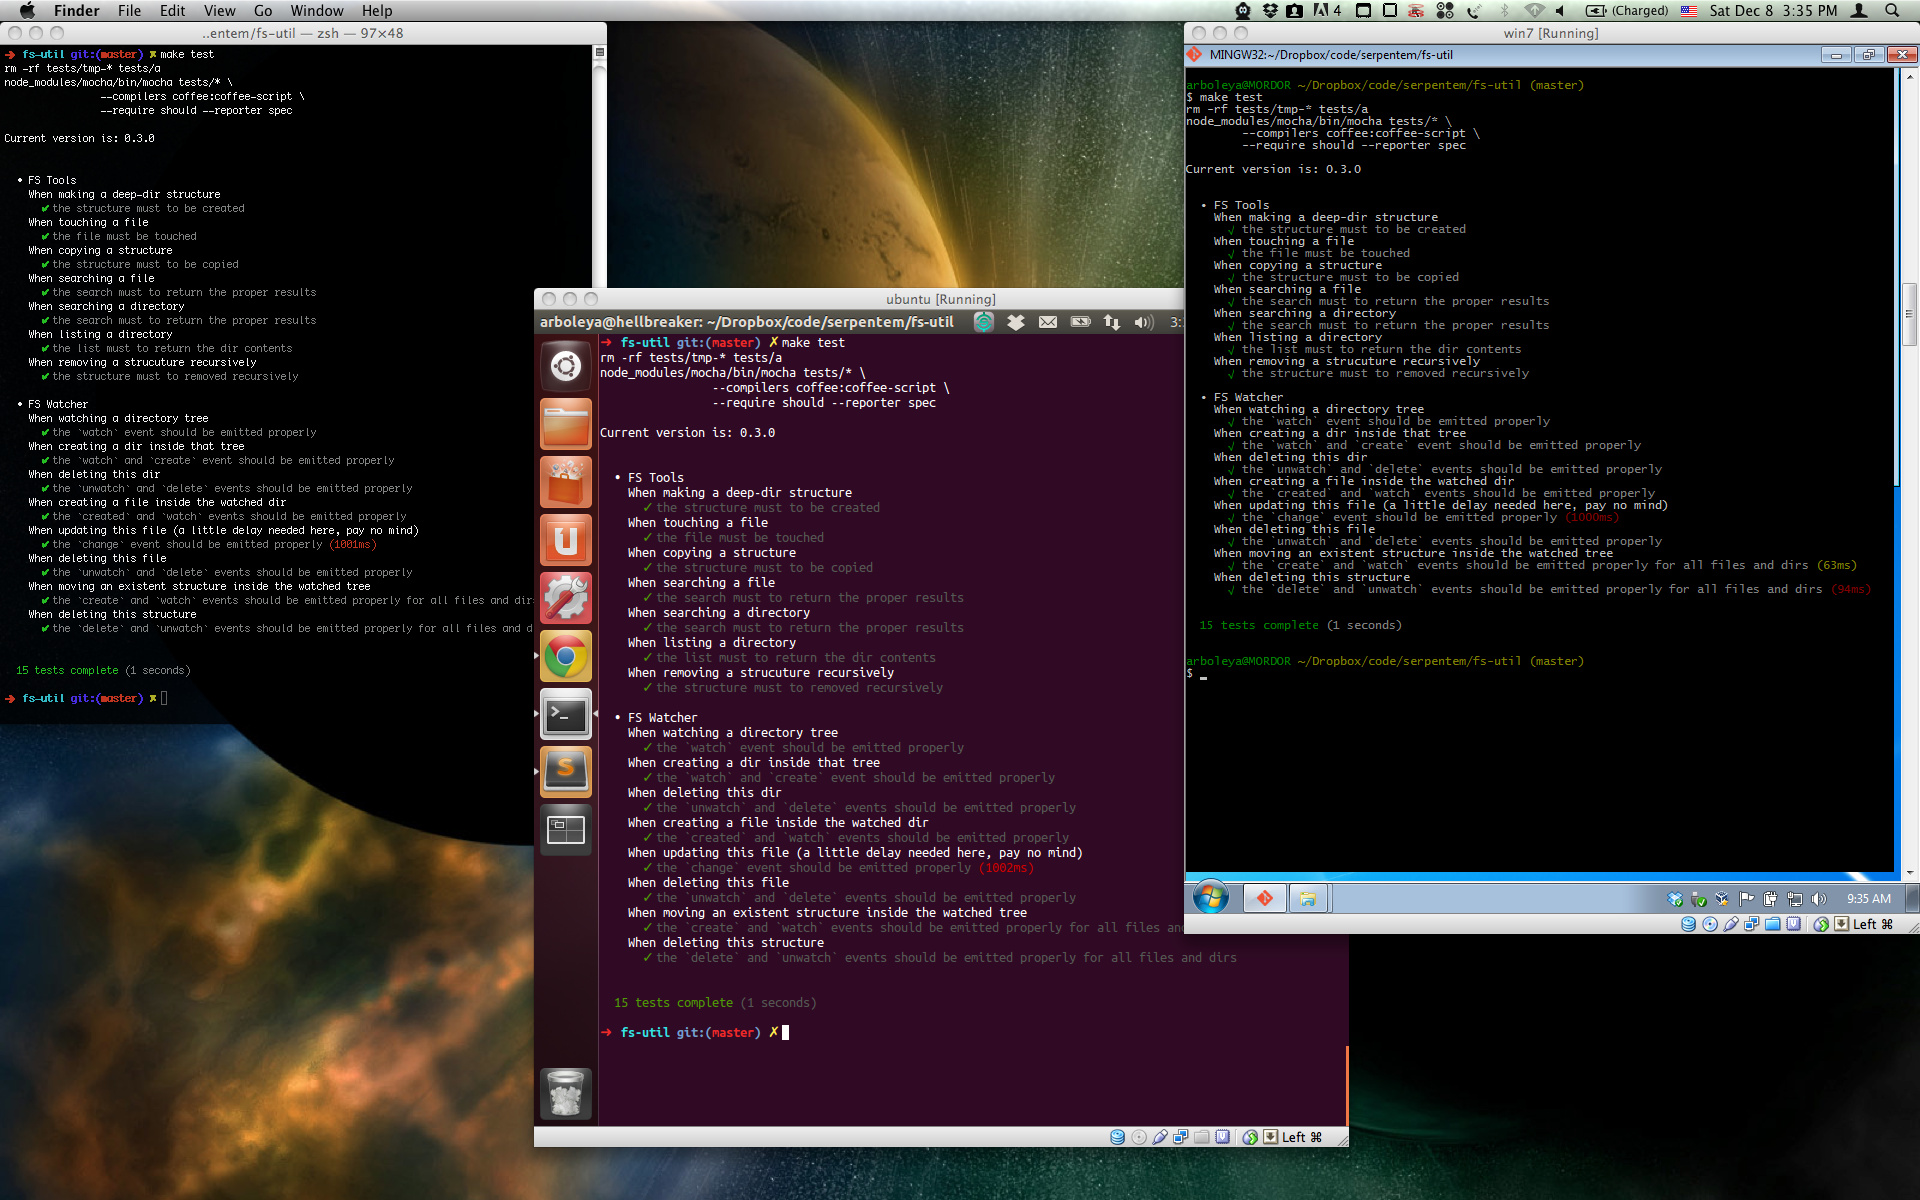
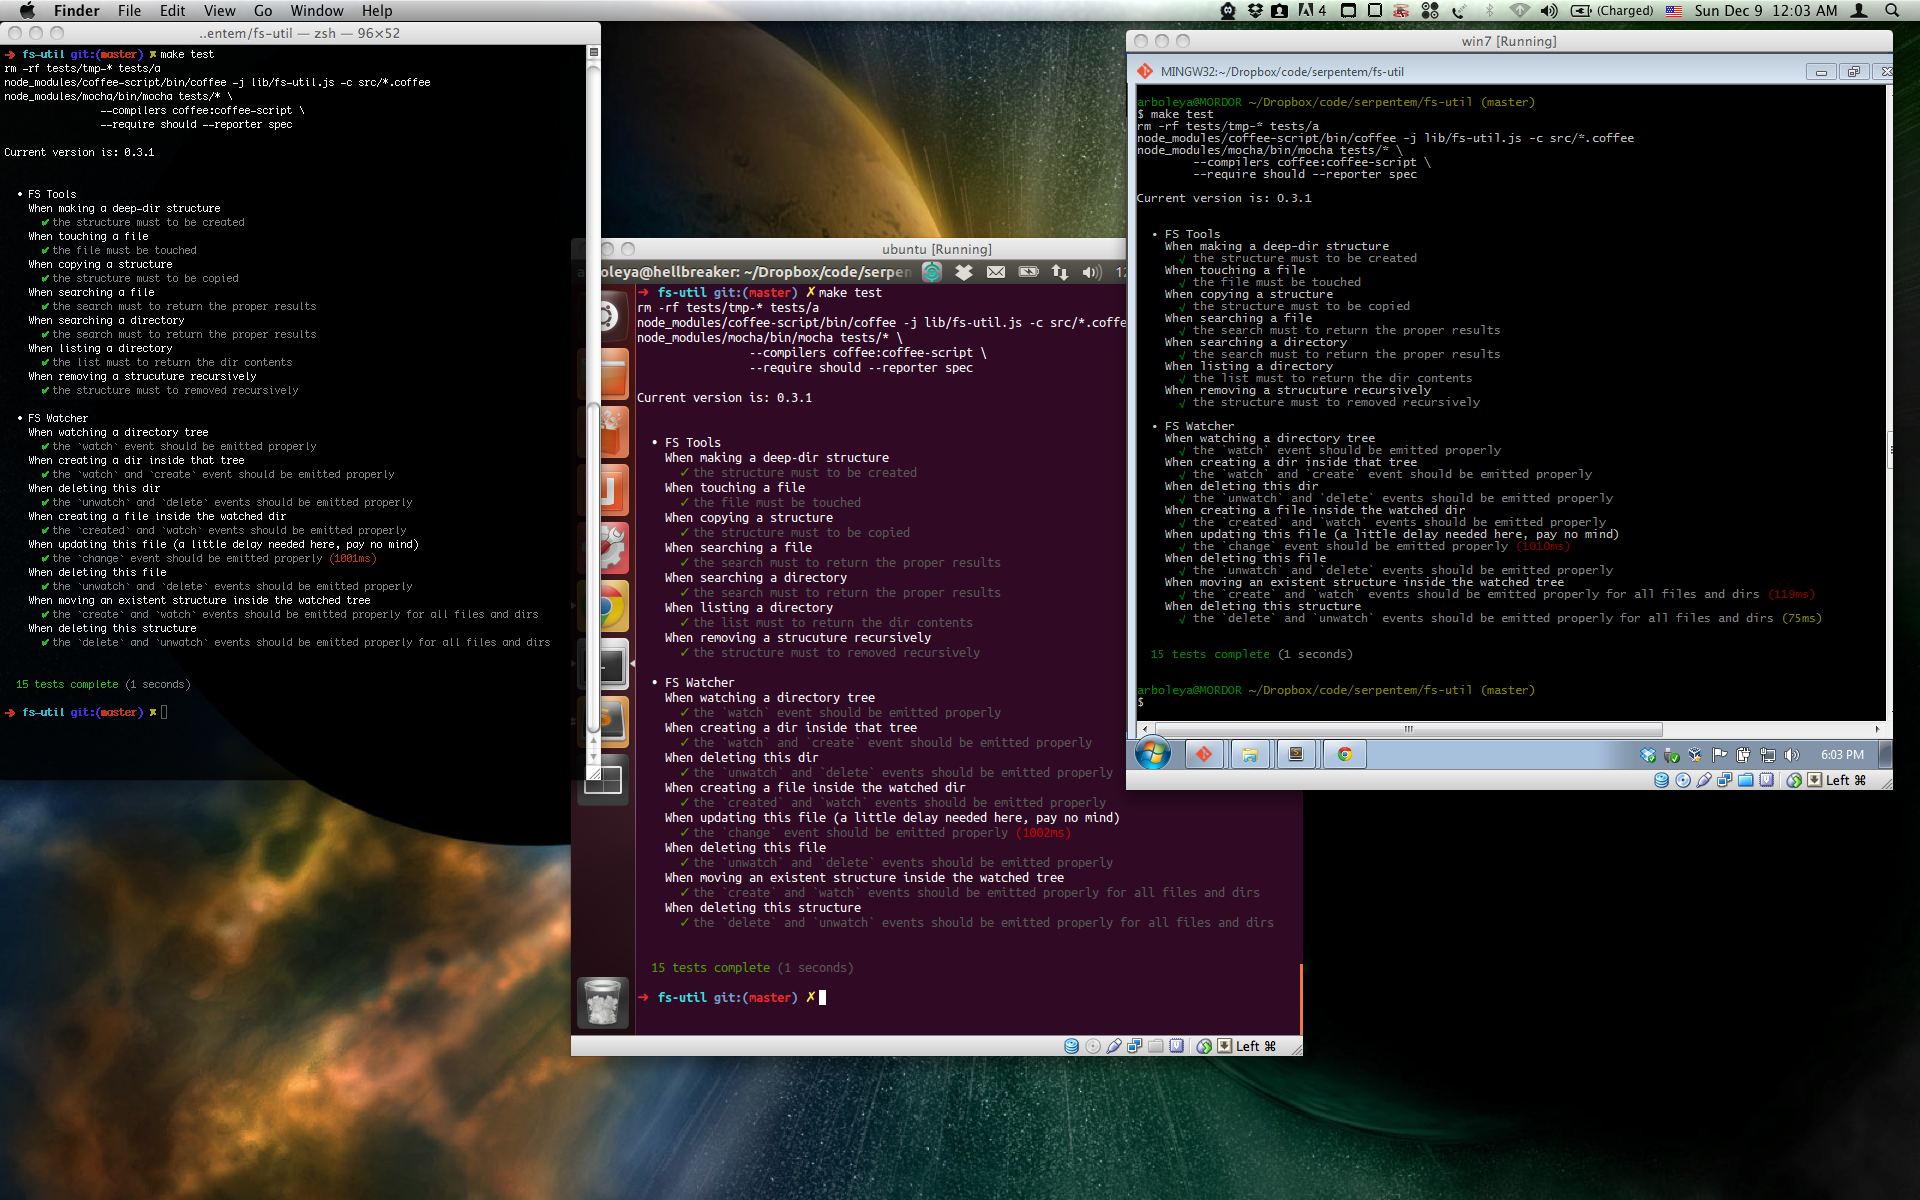
Bumping patch and reverting back the `copy` method to keep it sync (streams are async).

diff --git a/lib/fs-util.js b/lib/fs-util.js
@@ -83,7 +83,7 @@
       if (!fs.existsSync(dir_to)) {
         mkdir_p(dir_to);
       }
-      _results.push((fs.createReadStream(file_from)).pipe(fs.createWriteStream(file_to)));
+      _results.push(fs.writeFileSync(file_to, fs.readFileSync(file_from)));
     }
     return _results;
   };

diff --git a/README.md b/README.md
@@ -1,7 +1,7 @@
 Incremental utilities for NodeJS File System API.
 
 [![Build Status](https://secure.travis-ci.org/serpentem/fs-util.png)](http://travis-ci.org/serpentem/fs-util)
-> Version 0.3.0
+> Version 0.3.1
 
 ## Compatibility
 
@@ -154,8 +154,7 @@ make test
 * Current [output](https://raw.github.com/serpentem/fs-util/master/imgs/tests-passing.png):
 
 ````bash
-Current version is: 0.3.0
-
+Current version is: 0.3.1
 
   • FS Tools
     When making a deep-dir structure
@@ -190,7 +189,6 @@ Current version is: 0.3.0
       ✓ the `create` and `watch` events should be emitted properly for all files and dirs 
     When deleting this structure
       ✓ the `delete` and `unwatch` events should be emitted properly for all files and dirs 
-
 
   15 tests complete (1 seconds)
 ````
